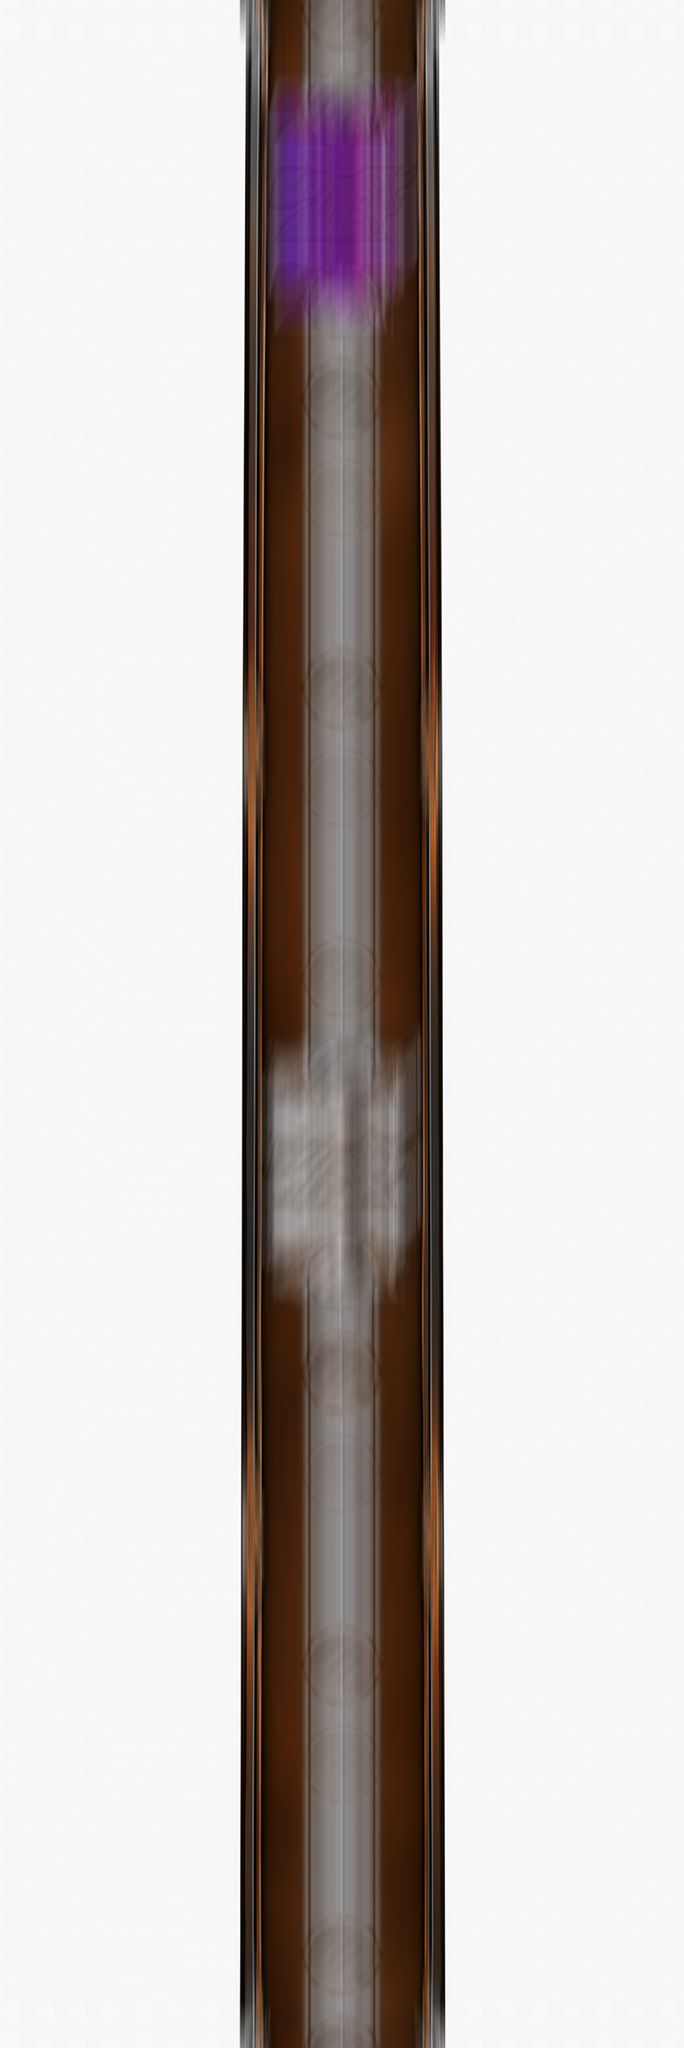
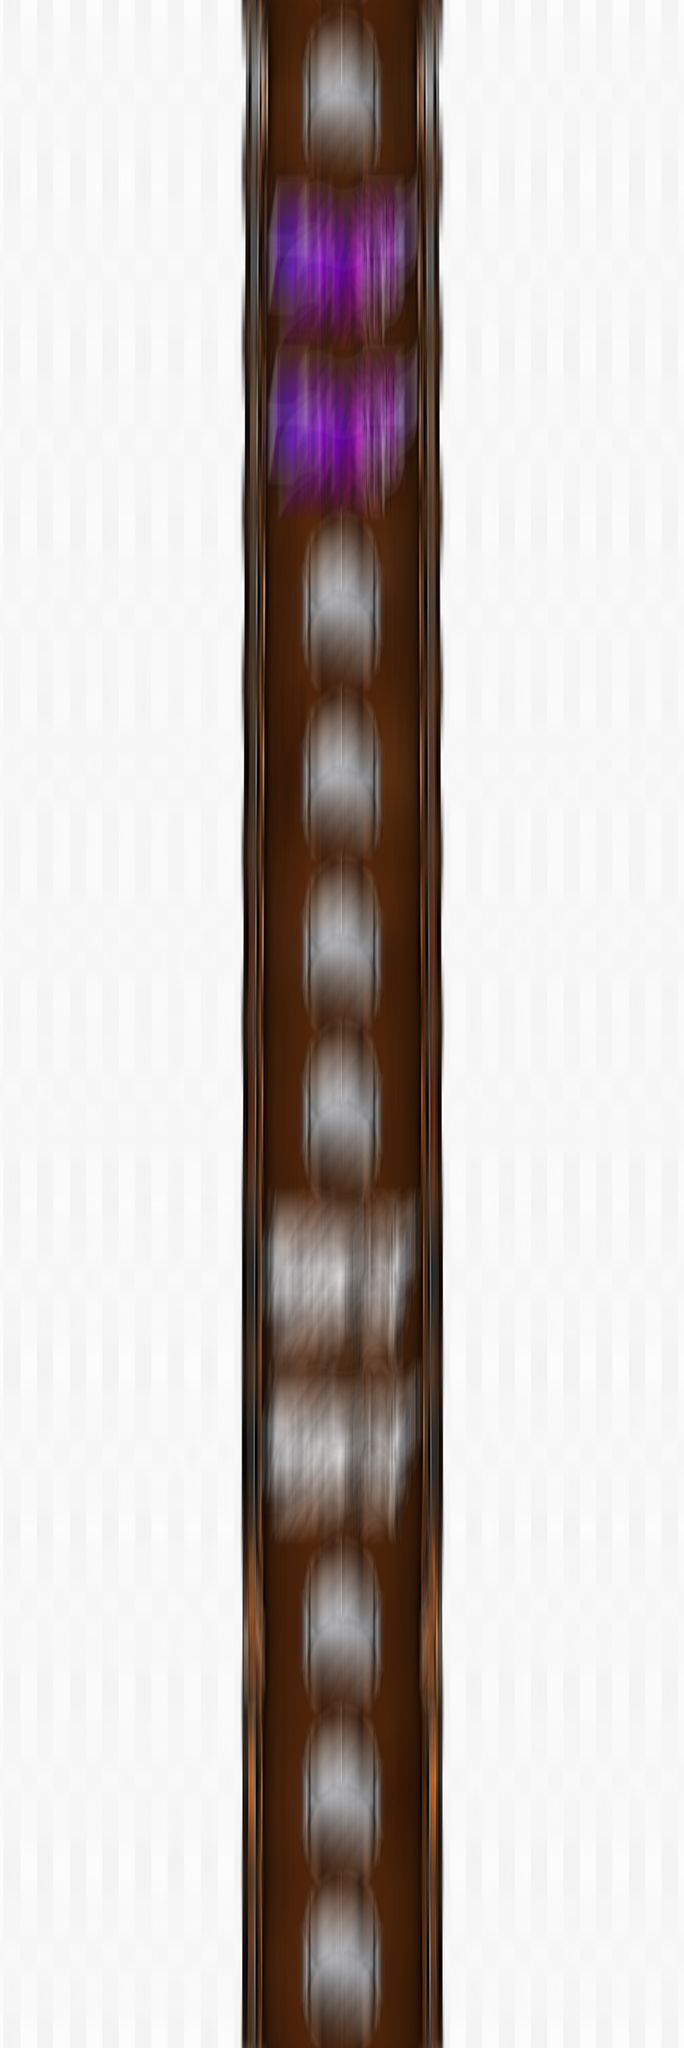
TORAMI RUSH v6: リールを12コマ化して3×3表示・UVつなぎ目修正・ハズレはテンパイ必須（上段で止まる／滑ってズレる）
Claude-Session: https://claude.ai/code/session_01CfEbAdSr1Zeg74JTK1dqK1

Changed region(s): [[0.3377, 0.0, 0.6754, 1.0]]

diff --git a/torecacorp/tora-rush-v6/index.html b/torecacorp/tora-rush-v6/index.html
@@ -513,27 +513,27 @@ const camera=new THREE.PerspectiveCamera(24,1.5,10,3000);camera.position.set(0,2
 function resize(){const w=canvas.clientWidth,h=canvas.clientHeight;if(!w||!h)return;renderer.setSize(w,h,false);camera.aspect=w/h;const tf=2*Math.tan(THREE.MathUtils.degToRad(camera.fov/2));camera.position.z=Math.max(196/camera.aspect/tf,146/tf);camera.updateProjectionMatrix()}
 addEventListener("resize",resize);
 const tl=new THREE.TextureLoader();const loadTex=f=>new Promise((res,rej)=>tl.load("model/"+f,t=>{t.colorSpace=THREE.SRGBColorSpace;t.anisotropy=4;res(t)},undefined,rej));
-const PIV={y:-18.206274,z:-28.074114},PITCH=Math.PI*2/21,REELX=[-55,0,55],W7=141.2*Math.PI/180;
-// リール帯（L/C/R・21コマ）のコマ番号→角度。コマcを中段に止める角度＝(13-c)×PITCH。上段＝c-1、下段＝c+1
-const CELL_OFF=-0.3; // リール帯を21コマちょうどに切り出したので、コマの中心が少しずれる分の補正
-const CELL=c=>(13-CELL_OFF-c)*PITCH;
-// 7の位置：L＝紫0,1／白10,11　C＝紫3／白4　R＝紫1,2／白11,12（縦2連）
+const PIV={y:-18.206274,z:-28.074114},PITCH=Math.PI*2/12,REELX=[-55,0,55],W7=141.2*Math.PI/180;
+// リール帯（L/C/R・12コマ／ゆうぽんさんの絵から作成）。上段＝c-1、下段＝c+1
+const CELL_OFF=0;
+const CELL=c=>(5.5-CELL_OFF-c)*PITCH; // 12コマ：コマcを中段に止める角度
+// 7の位置：L＝紫0,1／白6,7　C＝紫3／白4　R＝紫1,2／白7,8（縦2連）
 // シングル＝中段1ラインだけ（L・Rは7が中段＋下段）。ダブル＝中段＋右下がり斜めの2ライン（Lは上段＋中段、Rは中段＋下段）
 // ハズレ＝L・Cは中段に7（テンパイ）。Lは上段＋中段、Rは7が上段（1コマ手前）→ 右上がり斜めも揃わない
-const TG={pS:[0,3,1],pW:[1,3,1],wS:[10,4,11],wW:[11,4,11],missP:[1,3,3],missW:[11,4,13]};
+const TG={pS:[0,3,1],pW:[1,3,1],wS:[6,4,7],wW:[7,4,7],missP:[1,3,3],missW:[7,4,9]};
 Object.keys(TG).forEach(k=>TG[k]=TG[k].map(CELL));
-const HOME=[CELL(5),CELL(12),CELL(7)]; // 待機位置：3本ともコインの位置（7が見えない）
+const HOME=[CELL(3),CELL(8),CELL(5)]; // 待機位置：3本ともコインの位置（7が見えない）
 // 止まり方のパターン（11/28）：リール帯から「どのラインに何本揃うか」を全通り計算して、毎回ランダムに選ぶ
 //  シングル＝5ライン（上・中・下・右下がり・右上がり）のどれか1本、ダブル＝2本。ハズレ＝0本で、右リールの外れ方を数パターン
-const STRIP=[{P:[0,1],W:[10,11]},{P:[3],W:[4]},{P:[1,2],W:[11,12]}].map(o=>{const a=Array(21).fill("-");o.P.forEach(c=>a[c]="P");o.W.forEach(c=>a[c]="W");return a});
-const sym=(r,c)=>STRIP[r][((c%21)+21)%21];
+const NC=12;const STRIP=[{P:[0,1],W:[6,7]},{P:[3],W:[4]},{P:[1,2],W:[7,8]}].map(o=>{const a=Array(NC).fill("-");o.P.forEach(c=>a[c]="P");o.W.forEach(c=>a[c]="W");return a});
+const sym=(r,c)=>STRIP[r][((c%NC)+NC)%NC];
 const LINES=[[-1,-1,-1],[0,0,0],[1,1,1],[-1,0,1],[1,0,-1]]; // 上段・中段・下段・右下がり・右上がり
 const LNAME=["上段","中段","下段","右下がり","右上がり"];
 function evalCells(cs){const hit={P:[],W:[]};LINES.forEach((L,li)=>{const a=sym(0,cs[0]+L[0]);if(a!=="-"&&a===sym(1,cs[1]+L[1])&&a===sym(2,cs[2]+L[2]))hit[a].push(li)});
   const edge=[-2,2].some(o=>{const a=sym(0,cs[0]+o);return a!=="-"&&a===sym(1,cs[1]+o)&&a===sym(2,cs[2]+o)}); // 枠外の段（見える上下2段）にも揃って見えないように
   return{hit,edge}}
 const PAT={P1:[],P2:[],W1:[],W2:[],missP:{},missW:{}};
-for(let a=0;a<21;a++)for(let b=0;b<21;b++)for(let c=0;c<21;c++){const cs=[a,b,c],e=evalCells(cs);if(e.edge)continue;
+for(let a=0;a<NC;a++)for(let b=0;b<NC;b++)for(let c=0;c<NC;c++){const cs=[a,b,c],e=evalCells(cs);
   for(const X of ["P","W"]){const Y=X==="P"?"W":"P";
     if(e.hit[Y].length)continue;
     if(e.hit[X].length===1)PAT[X+"1"].push({cs,lines:e.hit[X]});
@@ -541,20 +541,27 @@ for(let a=0;a<21;a++)for(let b=0;b<21;b++)for(let c=0;c<21;c++){const cs=[a,b,c]
     if(e.hit[X].length===0&&!e.hit[Y].length){
       // テンパイ：L・Cが同じラインに7。右リールの外れ方で分類
       LINES.forEach((L,li)=>{if(sym(0,a+L[0])!==X||sym(1,b+L[1])!==X)return;const need=c+L[2];
-        const kind=sym(2,need-1)===X?"上に1コマ":sym(2,need+1)===X?"下に1コマ（通過）":(sym(2,need-2)===X||sym(2,need+2)===X)?"2コマずれ":"7が見えない";
+        const kind=sym(2,need-1)===X&&need-1>=c-1?"上段で止まる":sym(2,need+1)===X&&need+1<=c+1?"滑ってズレる":null;if(!kind)return;
         (PAT["miss"+X][kind]=PAT["miss"+X][kind]||[]).push({cs,line:li})})}}}
 const pickA=a=>a[Math.floor(Math.random()*a.length)];
 const toAng=cs=>cs.map(CELL);
-const MISSW={"上に1コマ":35,"下に1コマ（通過）":30,"2コマずれ":20,"7が見えない":15};
+const MISSW={"上段で止まる":50,"滑ってズレる":50}; // ハズレは必ずテンパイ。右リールの7は必ず見える（11/28）
 function pickWin(k){const X=k[0]==="p"?"P":"W",n=k[1]==="W"?2:1,p=pickA(PAT[X+n]);return{ang:toAng(p.cs),line:p.lines.map(i=>LNAME[i]).join("＋")}}
-function pickMiss(X){const M=PAT["miss"+X];let tot=0;const ks=Object.keys(MISSW).filter(k=>M[k]&&M[k].length);ks.forEach(k=>tot+=MISSW[k]);let x=Math.random()*tot,kk=ks[0];for(const k of ks){if((x-=MISSW[k])<0){kk=k;break}}const p=pickA(M[kk]);return{ang:toAng(p.cs),kind:kk,line:LNAME[p.line]}}
+function pickMiss(X){const M=PAT["miss"+X];let tot=0;const ks=Object.keys(MISSW).filter(k=>M[k]&&M[k].length);ks.forEach(k=>tot+=MISSW[k]);let x=Math.random()*tot,kk=ks[0];for(const k of ks){if((x-=MISSW[k])<0){kk=k;break}}const p=pickA(M[kk]);const ang=toAng(p.cs);return{ang,kind:kk,line:LNAME[p.line],slideFrom:kk==="滑ってズレる"?ang[2]-PITCH:null}}
 let tex={},machineMat,reels=[],ready=false;
 async function init3d(){
   const [dark,on,bright,rL,rC,rR,bL,bC,bR]=await Promise.all(["slot_dark.jpg","slot_on.jpg","slot_bright.jpg","reel_L.jpg","reel_C.jpg","reel_R.jpg","blur_L.jpg","blur_C.jpg","blur_R.jpg"].map(loadTex));
+  [rL,rC,rR,bL,bC,bR].forEach(t=>{t.wrapT=THREE.RepeatWrapping;t.needsUpdate=true});
   tex={dark,on,bright,reels:[{reel:rL,blur:bL},{reel:rC,blur:bC},{reel:rR,blur:bR}]}; // リール帯はL／C／R別（ゆうぽんさん 11/27 版）
   const L=new OBJLoader();const [m,r]=await Promise.all([L.loadAsync("model/Slot_Machine.obj"),L.loadAsync("model/Reel.obj")]);
   machineMat=new THREE.MeshBasicMaterial({map:dark});m.traverse(o=>{if(o.isMesh)o.material=machineMat});scene.add(m);
-  REELX.forEach((x,ri)=>{const g=new THREE.Group();g.position.set(x,PIV.y,PIV.z);const mat=new THREE.MeshBasicMaterial({map:tex.reels[ri].reel});fade3x3(mat);const c=r.clone();c.traverse(o=>{if(o.isMesh)o.material=mat});c.position.set(0,-PIV.y,-PIV.z);g.add(c);scene.add(g);reels.push({g,mat,tex:tex.reels[ri],ang:HOME[reels.length],w:0,state:"idle"});g.rotation.x=HOME[reels.length-1]});
+  // リール面のUVを角度から作り直す（元モデルのUVは1周の96%しか使わず、つなぎ目で絵が潰れていた）。1周＝リール帯1本ぶん
+  r.traverse(o=>{if(!o.isMesh)return;const pos=o.geometry.attributes.position,uv=o.geometry.attributes.uv;if(!uv)return;
+    for(let k=0;k<pos.count;k++){const y=pos.getY(k)-PIV.y,z=pos.getZ(k)-PIV.z;if(Math.hypot(y,z)<45)continue;uv.setY(k,0.5+Math.atan2(y,z)/(Math.PI*2))}
+    // つなぎ目をまたぐ三角形は、vが0付近の頂点を+1して連続にする（テクスチャは縦方向リピート）
+    if(!o.geometry.index)for(let t=0;t<pos.count;t+=3){const v=[uv.getY(t),uv.getY(t+1),uv.getY(t+2)];if(Math.max(...v)-Math.min(...v)>0.5)for(let q=0;q<3;q++)if(v[q]<0.5)uv.setY(t+q,v[q]+1)}
+    uv.needsUpdate=true});
+  REELX.forEach((x,ri)=>{const g=new THREE.Group();g.position.set(x,PIV.y,PIV.z);const mat=new THREE.MeshBasicMaterial({map:tex.reels[ri].reel});const c=r.clone();c.traverse(o=>{if(o.isMesh)o.material=mat});c.position.set(0,-PIV.y,-PIV.z);g.add(c);scene.add(g);reels.push({g,mat,tex:tex.reels[ri],ang:HOME[reels.length],w:0,state:"idle"});g.rotation.x=HOME[reels.length-1]});
   resize();ready=true;window.RUSH_DBG={reels,PITCH,TG,HOME,PAT:()=>PAT,pickWin,pickMiss};idle();
 }
 init3d().catch(e=>{$("idleMsg").textContent="3Dの読み込みに失敗しました："+e.message});
@@ -649,7 +656,8 @@ function timeline(){if(!running||!step)return;
   const vt=el.currentTime,C=CLIP[step.clip];
   if(!step.fist&&vt>=3.1){step.fist=true;sfx("devilrush",.8);sfx("punch",.9)} // 継続の拳突き上げ（7のあとに虎美が拳を上げる場面）
   if(!step.stops[0]&&vt>=C.flash-1.0){step.stops[0]=true;shakeAll(step.target);sfx(Math.random()<.5?"reellock_t1":"reellock_t2")}
-  if(C.miss){if(!step.stops[1]&&vt>=C.flash-FULL_MS/1000){step.stops[1]=true;spinStopAll(step.target); /* 1回転してハズレ（右リールの外れ方はパターンから） */stopSfx("reellock_t1");stopSfx("reellock_t2");setTimeout(()=>{if(!running)return;setLight("dark");$("dim").classList.add("on");callout("RUSH 終了<small>7揃わず</small>")},420+FULL_MS/SPD)}return}
+  if(C.miss){if(!step.stops[1]&&vt>=C.flash-FULL_MS/1000){step.stops[1]=true;spinStopAll(step.pre||step.target); /* 1回転してハズレ。「滑ってズレる」は一度揃う位置で止まり、1コマ滑る */
+    if(step.pre){const st=step;setTimeout(()=>{if(!running||step!==st)return;const r=reels[2];r.stop={a0:r.ang,D:norm(st.target[2]-r.ang),t0:performance.now(),dur:240/SPD,slam:false};r.state="stopping";sfx("reellock_t1",.5)},(FULL_MS+160)/SPD)}stopSfx("reellock_t1");stopSfx("reellock_t2");setTimeout(()=>{if(!running)return;setLight("dark");$("dim").classList.add("on");callout("RUSH 終了<small>7揃わず</small>")},420+(FULL_MS+(step.pre?420:0))/SPD)}return}
   if(!step.stops[1]&&vt>=C.flash-FULL_MS/1000){step.stops[1]=true;spinStopAll(step.target);stopSfx("reellock_t1");stopSfx("reellock_t2");setTimeout(()=>{if(running)sfx("s777")},FULL_MS/SPD-40);
     if(step.clip==="rainbow")sfx("rainbow05",.9);else if(step.clip==="gold")setTimeout(()=>sfx("v_tempai"),500)}}
 function onStop(i){if(!running||!step)return;
@@ -862,7 +870,7 @@ function build(L){const {R,t,score,c,po}=L;let PM;
   c.games.forEach((g,i)=>{const s=SYM[g.k];
     steps.push({k:"play",f:"lead",l:`${i+1}ゲーム目 導入`},{k:"wait",f:"loop",l:`${i+1}ゲーム目 押せ！`});
     const pw=pickWin(g.k);steps.push({k:"win",f:CLIP[s.clip].f,clip:s.clip,target:pw.ang,line:pw.line,add:g.v,lab:s.n,l:`${i+1}G ${s.n}（${pw.line}）`,freeze:s.d&&Math.random()*100<(STATE.freezeP??25)})});
-  const nE=c.games.length+1;steps.push({k:"play",f:"lead",l:`${nE}ゲーム目 導入`},{k:"wait",f:"loop",l:`${nE}ゲーム目 押せ！`},{k:"win",f:"miss",clip:"miss",target:(PM=pickMiss(Math.random()<.5?"P":"W")).ang,l:`${nE}G ハズレ（右リール${PM.kind}）→ 終了`});
+  const nE=c.games.length+1;steps.push({k:"play",f:"lead",l:`${nE}ゲーム目 導入`},{k:"wait",f:"loop",l:`${nE}ゲーム目 押せ！`},{k:"win",f:"miss",clip:"miss",target:(PM=pickMiss(Math.random()<.5?"P":"W")).ang,pre:PM.slideFrom!=null?[PM.ang[0],PM.ang[1],PM.slideFrom]:null,l:`${nE}G ハズレ（右リール${PM.kind}）→ 終了`});
   steps.push({k:"play",f:c.games[c.games.length-1].k==="wW"?"total":"total_green",l:"TOTAL",bgmOff:true,vsfx:[["jingle",0.0],["v_result",0.82]]});
   if(c.rev)steps.push({k:"rev",rev:c.rev,add:c.rev.ok?score-c.rev.base:0,l:(c.rev.type==="push"?"倍プッシュ":"輪廻転生")+"（"+LV[c.rev.lv].n+"）"+(c.rev.ok?"成功":"失敗")});
   const cnt={};c.games.forEach(g=>cnt[g.k]=(cnt[g.k]||0)+1);const mul=t.u/10;
